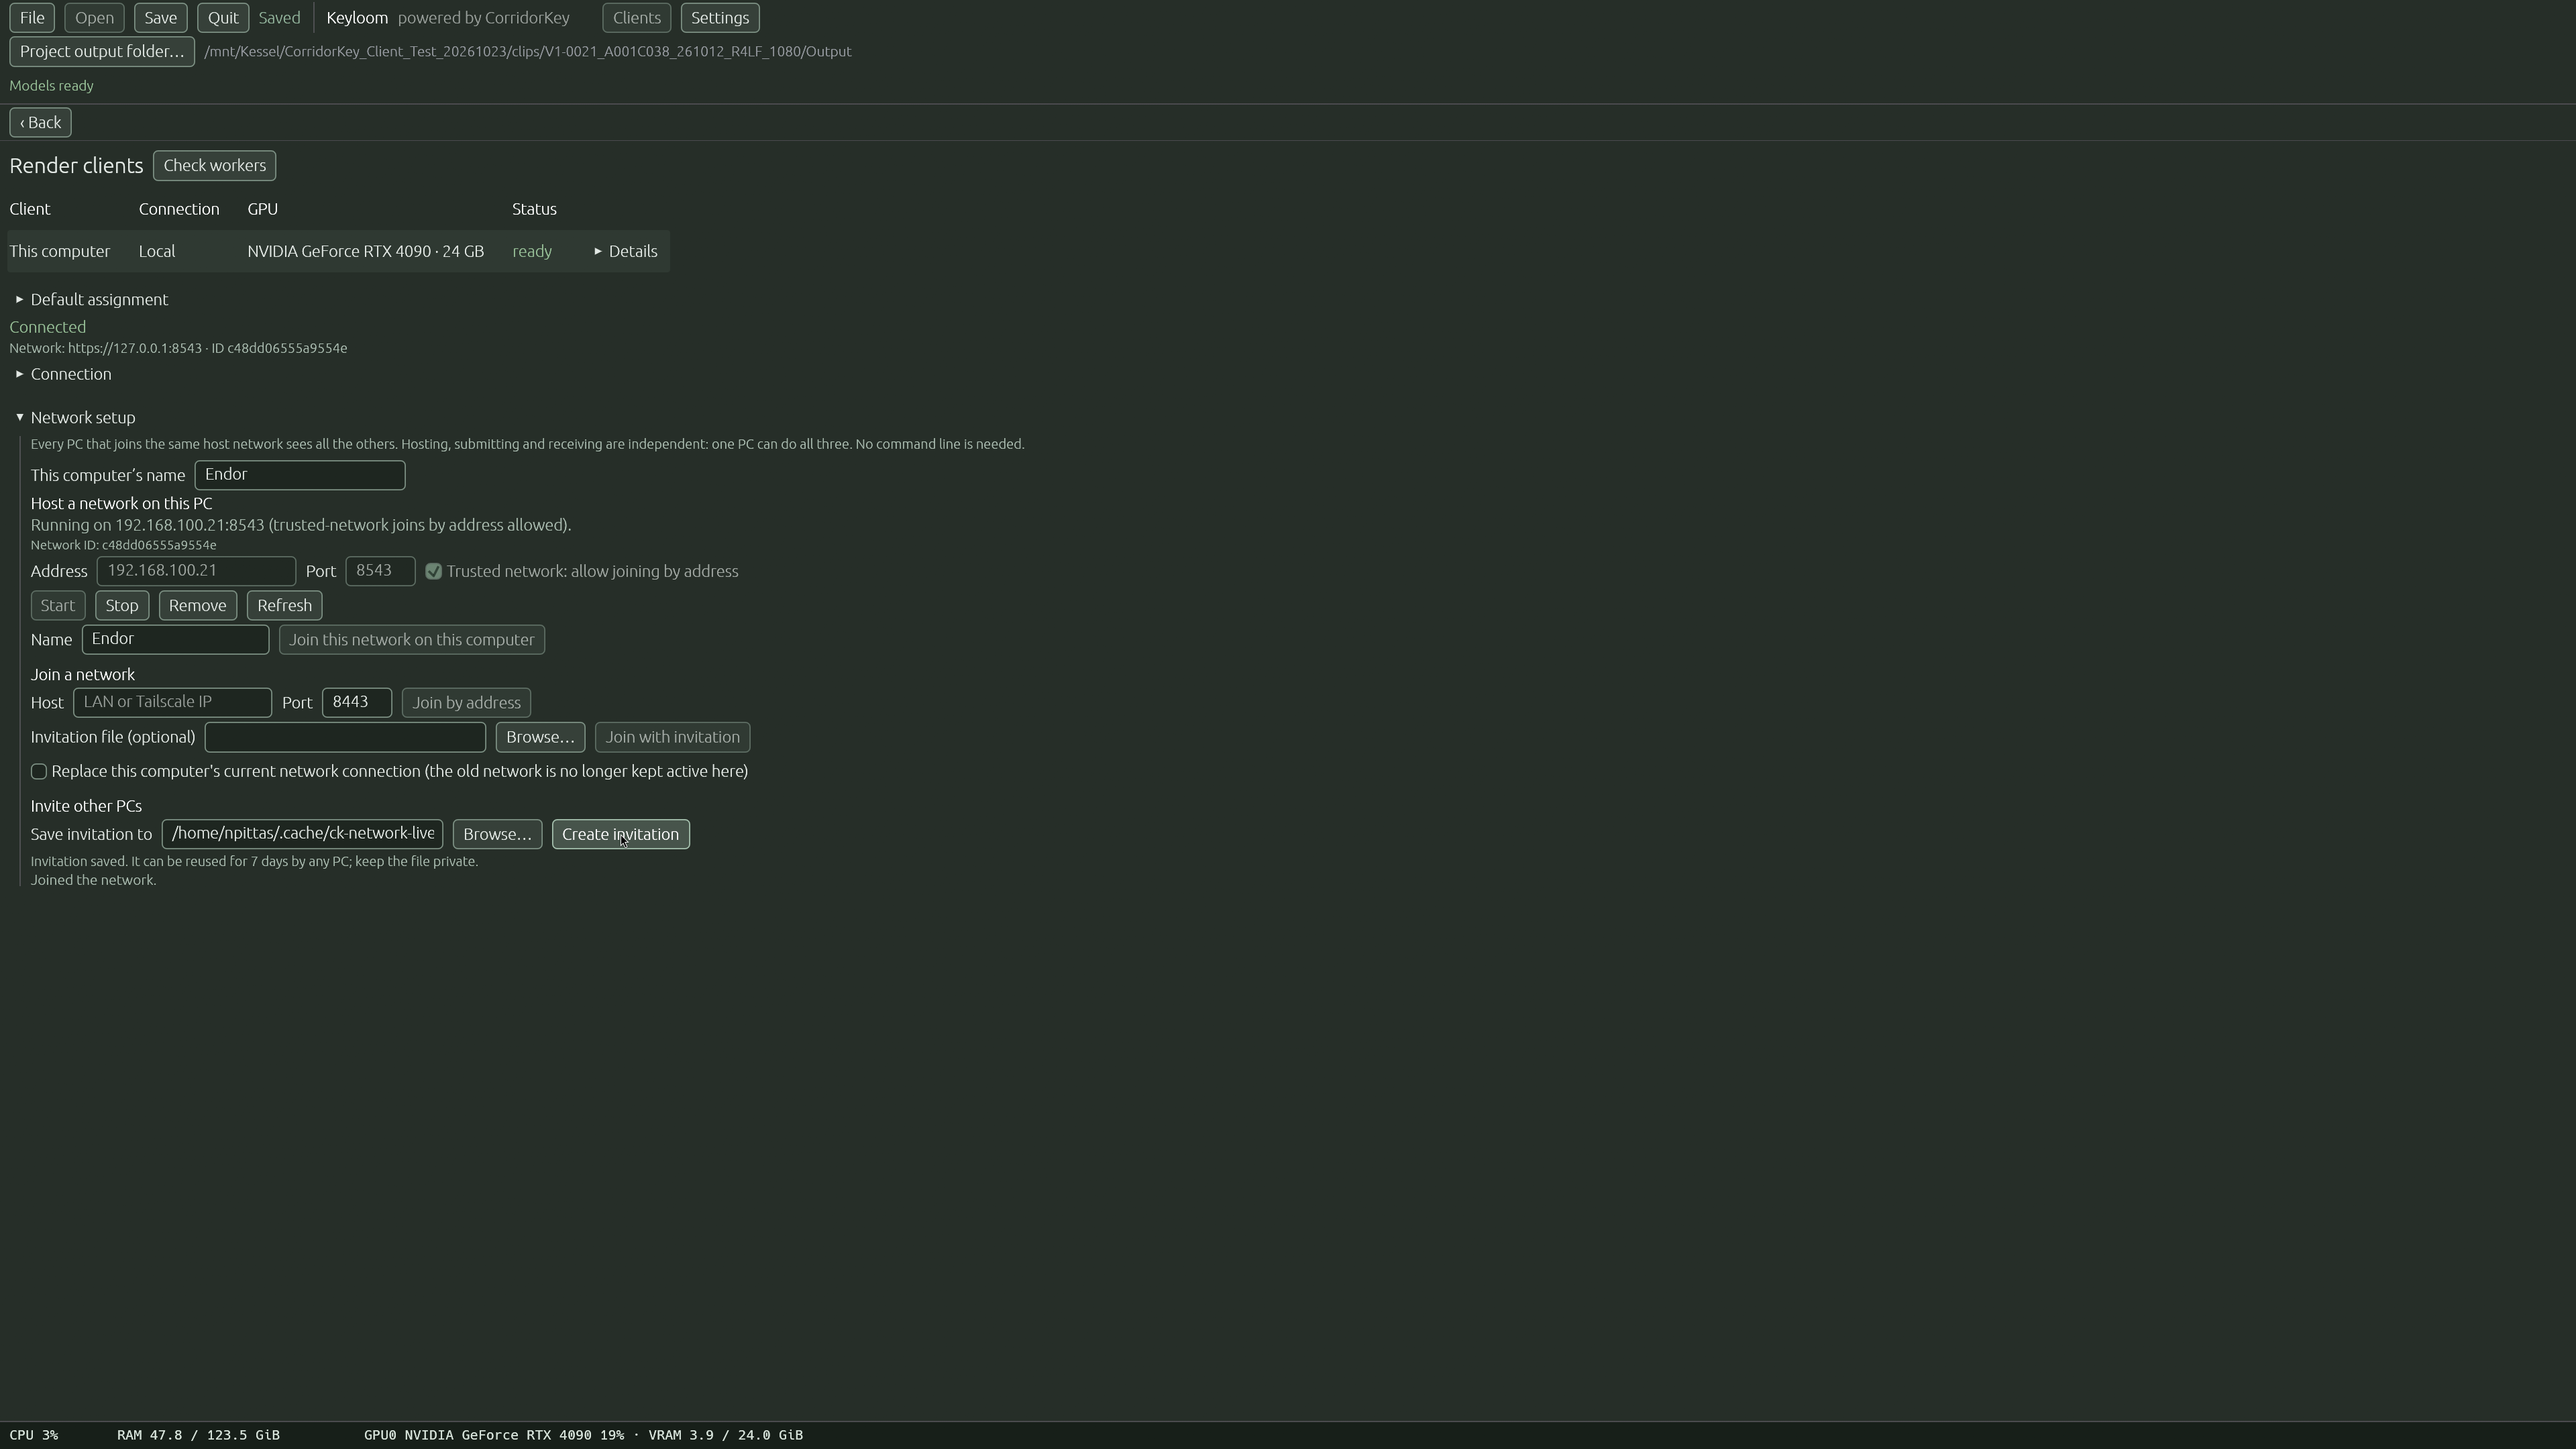
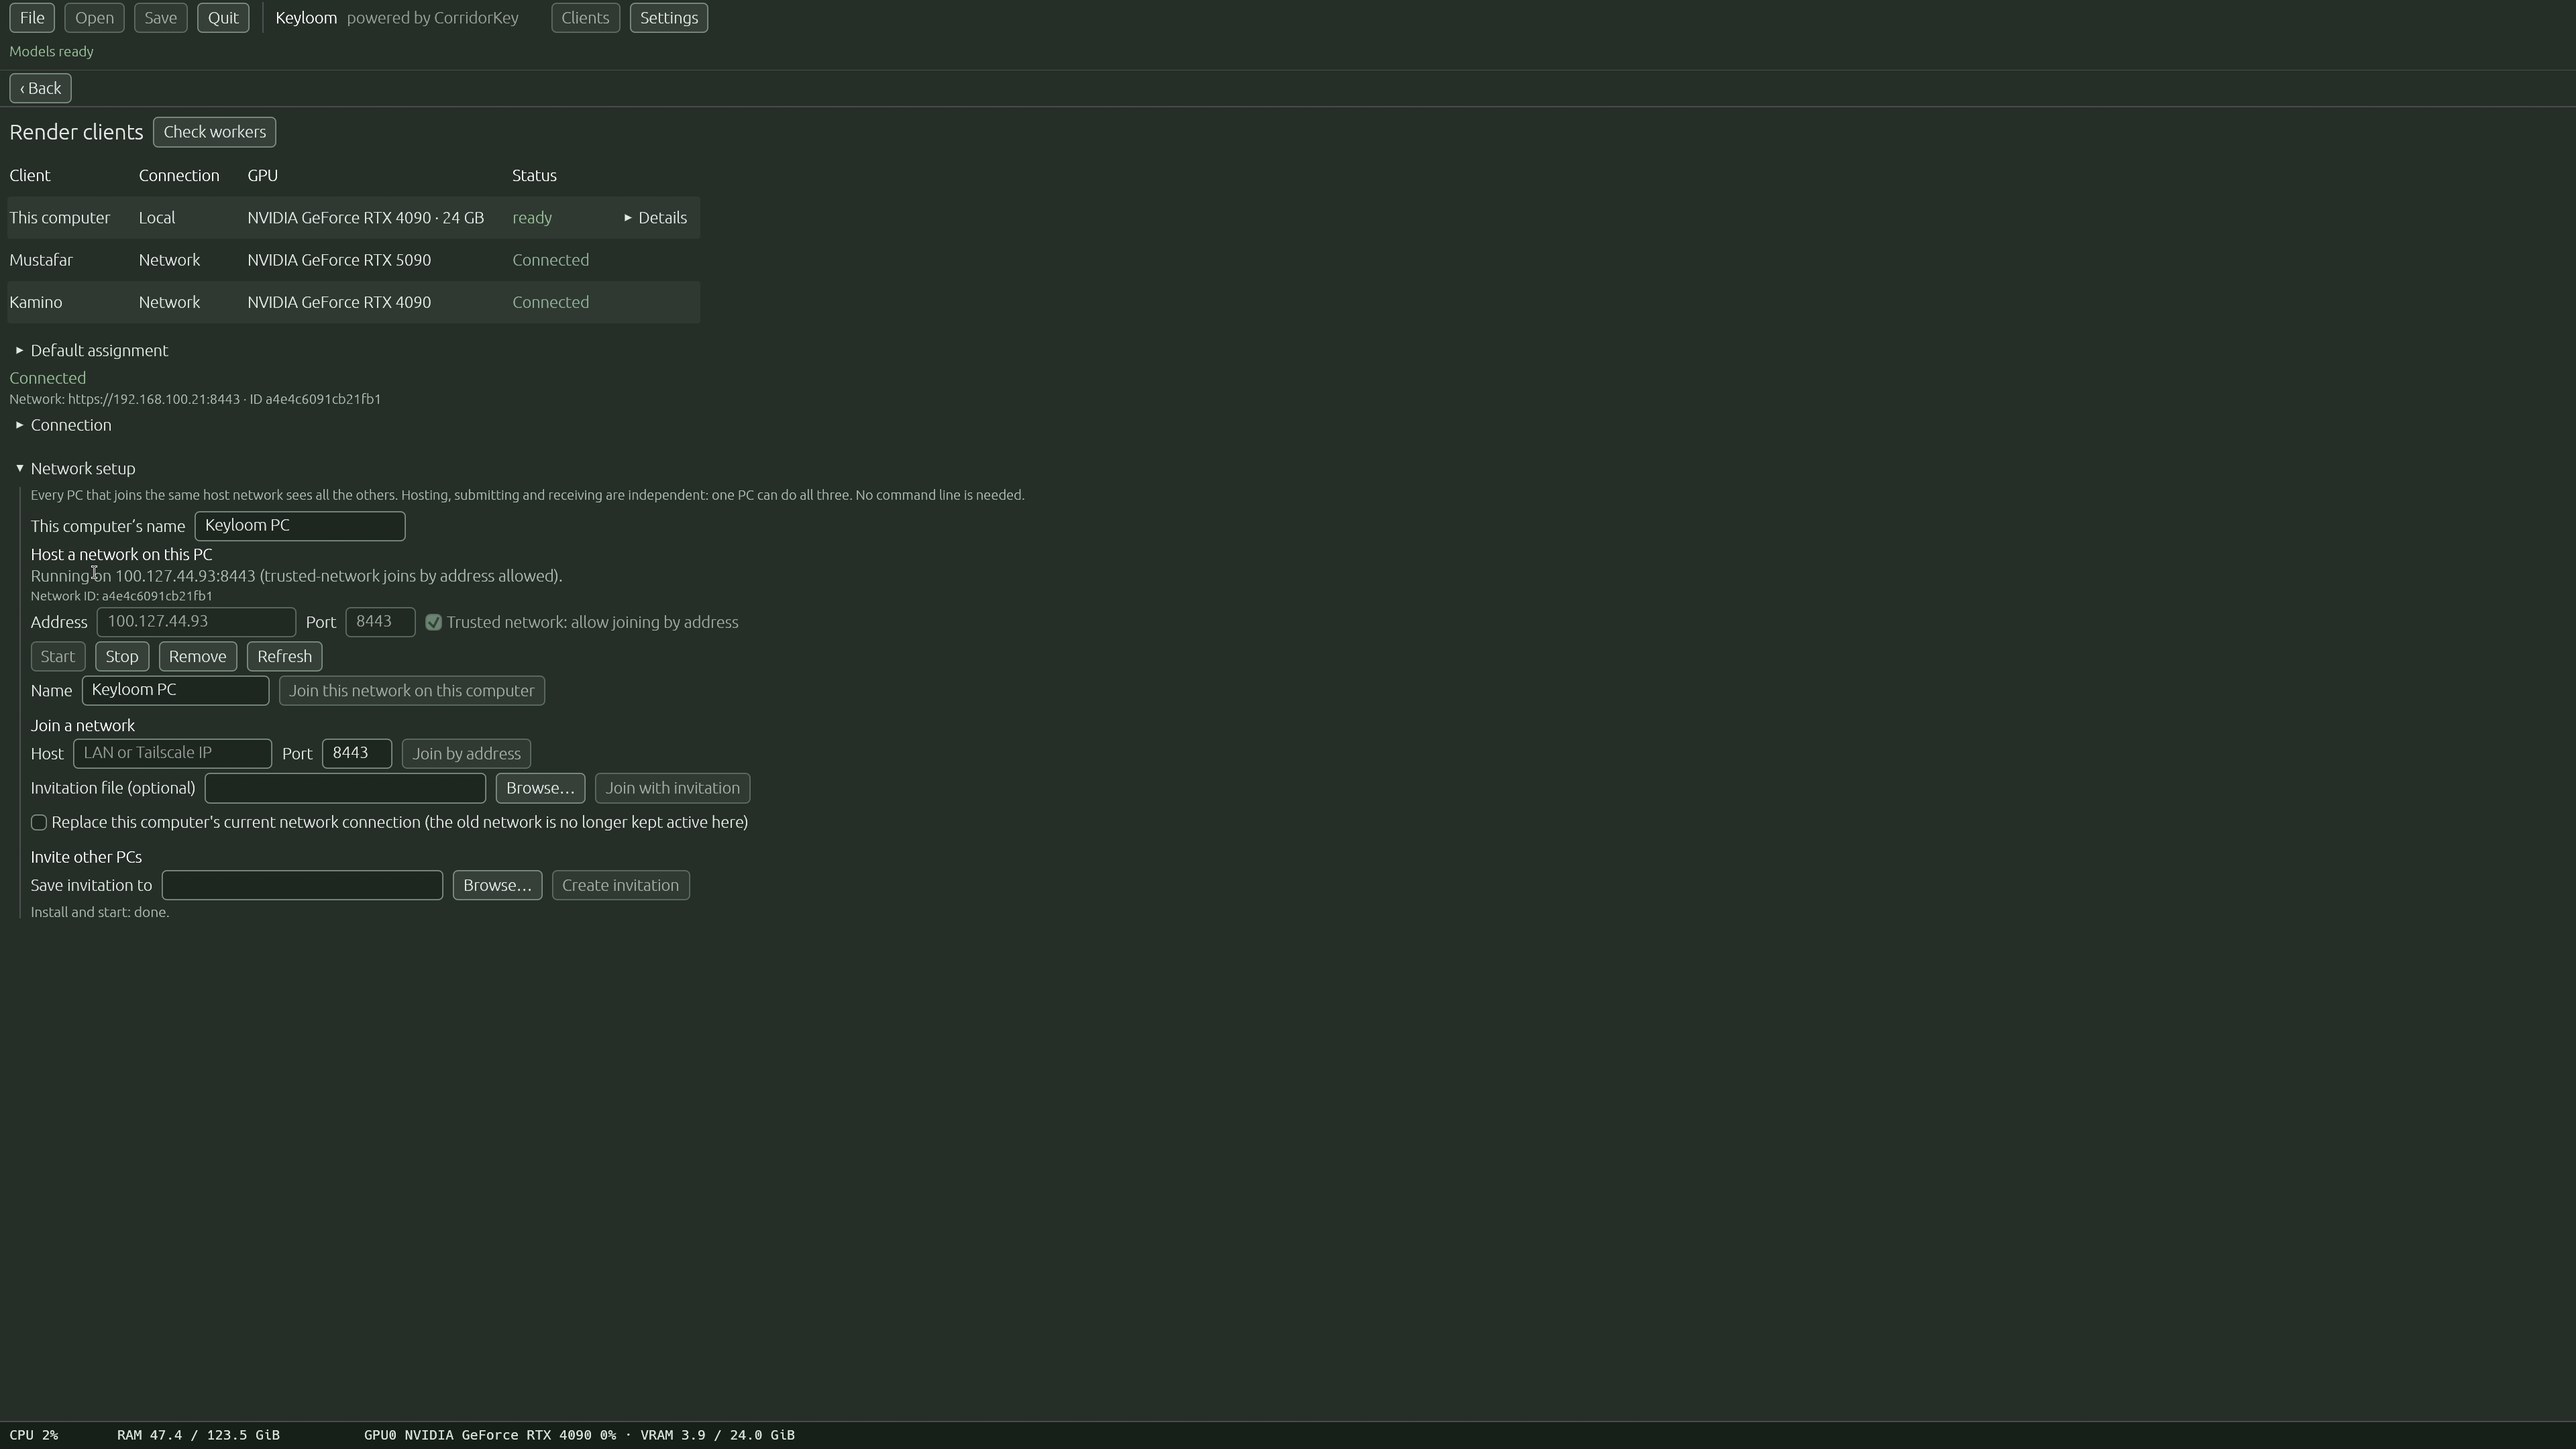
Document final Keyloom installers and verified UI network setup

Changed region(s): [[0.0, 0.031, 0.2812, 0.6204], [0.0938, 0.0, 0.2812, 0.031]]

diff --git a/docs/install.md b/docs/install.md
@@ -21,18 +21,18 @@ The installers are for private use. The licence is non-commercial (CC-BY-NC-SA-4
 
 GitHub limits file size, so the installer comes in slices: one `.exe` plus several `.bin` files (each up to 1900 MiB), and a `.sha256` file.
 
-`<id>` below stands for the build identifier in the file names of the release you download (the same in every file of one release). Final installer IDs are not published yet.
+The Windows payload is `2.2.0-8f144ac0b0`; the Linux payload is `2.2.0-56885597c1`. These suffixes identify the bundled contents.
 
 Download the [Windows release](https://github.com/NickPittas/Keyloom/releases/tag/v2.2.0-windows).
 
 1. Download **all** of these into the **same folder**:
-   - `Keyloom-2.2.0-<id>-windows-x86_64-setup.exe`
-   - every `Keyloom-2.2.0-<id>-windows-x86_64-setup-1.bin`, `-2.bin`, … (all of them)
-   - `Keyloom-2.2.0-<id>-windows-x86_64-setup.exe.sha256`
+   - `Keyloom-2.2.0-8f144ac0b0-windows-x86_64-setup.exe`
+   - every `Keyloom-2.2.0-8f144ac0b0-windows-x86_64-setup-1.bin`, `-2.bin`, … (all of them)
+   - `Keyloom-2.2.0-8f144ac0b0-windows-x86_64-setup.exe.sha256`
 2. Check the files. In PowerShell, inside that folder:
 
    ```powershell
-   Get-Content .\Keyloom-2.2.0-<id>-windows-x86_64-setup.exe.sha256 | ForEach-Object {
+   Get-Content .\Keyloom-2.2.0-8f144ac0b0-windows-x86_64-setup.exe.sha256 | ForEach-Object {
      $hash, $name = $_ -split '\s+', 2
      $got = (Get-FileHash -Algorithm SHA256 -LiteralPath $name).Hash
      if ($got -ine $hash) { throw "SHA256 mismatch: $name" }
@@ -63,16 +63,16 @@ The release is a single self-extracting `.run` file. If it is hosted on GitHub i
 
 Put these files in one folder:
 
-- `Keyloom-2.2.0-<id>-linux-x86_64.run.part001`, `.part002`, `.part003` (every part)
-- `Keyloom-2.2.0-<id>-linux-x86_64.run.parts.sha256` (checksums of the parts)
-- `Keyloom-2.2.0-<id>-linux-x86_64.run.sha256` (checksum of the whole file)
+- `Keyloom-2.2.0-56885597c1-linux-x86_64.run.part001`, `.part002`, `.part003` (every part)
+- `Keyloom-2.2.0-56885597c1-linux-x86_64.run.parts.sha256` (checksums of the parts)
+- `Keyloom-2.2.0-56885597c1-linux-x86_64.run.sha256` (checksum of the whole file)
 
 ```sh
-cd ~/Downloads/corridorkey
-sha256sum -c Keyloom-2.2.0-<id>-linux-x86_64.run.parts.sha256
-cat Keyloom-2.2.0-<id>-linux-x86_64.run.part[0-9][0-9][0-9] > Keyloom-2.2.0-<id>-linux-x86_64.run
-sha256sum -c Keyloom-2.2.0-<id>-linux-x86_64.run.sha256
-chmod +x Keyloom-2.2.0-<id>-linux-x86_64.run
+cd ~/Downloads/keyloom
+sha256sum -c Keyloom-2.2.0-56885597c1-linux-x86_64.run.parts.sha256
+cat Keyloom-2.2.0-56885597c1-linux-x86_64.run.part[0-9][0-9][0-9] > Keyloom-2.2.0-56885597c1-linux-x86_64.run
+sha256sum -c Keyloom-2.2.0-56885597c1-linux-x86_64.run.sha256
+chmod +x Keyloom-2.2.0-56885597c1-linux-x86_64.run
 ```
 
 Use the numeric pattern `part[0-9][0-9][0-9]`. A plain `part*` would also match the `.parts.sha256` file and corrupt the result. Each check must print `OK`.
@@ -80,7 +80,7 @@ Use the numeric pattern `part[0-9][0-9][0-9]`. A plain `part*` would also match 
 ### Run the installer
 
 ```sh
-./Keyloom-2.2.0-<id>-linux-x86_64.run
+./Keyloom-2.2.0-56885597c1-linux-x86_64.run
 ```
 
 It installs to `~/.local/opt/CorridorKey` by default, adds a desktop entry, installs the `corridorkey`, `corridorkey-setup` and `corridorkey-coordinator` commands under `~/.local/opt/CorridorKey/bin`, then downloads and verifies the full model set.

diff --git a/docs/release-2.2.0.md b/docs/release-2.2.0.md
@@ -1,6 +1,11 @@
 # Keyloom 2.2.0 release record
 
-Keyloom — powered by CorridorKey. Separate Linux and Windows installers are being prepared for the private repository; final asset identities are listed in the release asset manifest.
+Keyloom — powered by CorridorKey. Separate Linux and Windows installers are distributed in the private repository. The source payload was built from commit `db179cc` (later documentation commits do not alter the payload). Full downloadable asset sizes and SHA256 hashes are in [the asset manifest](release-2.2.0-assets.json).
+
+| Platform | Payload identity | Downloads |
+|---|---|---|
+| Linux x86-64 | `2.2.0-56885597c1` | Three numeric installer parts and two checksum files |
+| Windows x86-64 | `2.2.0-8f144ac0b0` | Setup exe, two bin slices and the checksum file |
 
 ## Changed setup verified on the existing PCs
 
@@ -9,7 +14,8 @@ Keyloom — powered by CorridorKey. Separate Linux and Windows installers are be
 - Windows: installed the per-user logon service from Clients, allowed the OS firewall prompt, joined the host locally, created an invitation, stopped and removed the service. Recreated the temporary network using its reachable Tailscale address.
 - Two separate Linux PCs joined that Windows network using the **same invitation file**. The member lists showed all three PCs connected. No render was submitted during this setup check.
 - The setup check exposed a Linux unit WorkingDirectory quoting error and a disconnected-client request backlog on Windows. Both are fixed. The backlog fix limits outstanding status requests and enters reconnect backoff when membership refresh fails.
-- Code review confirmed that older network certificates keep their identity when moving to the UI-managed service. Local joining uses loopback transport while retaining the advertised hostname and pinned certificate for TLS verification.
+- The original network was moved to the UI-managed service without changing its certificate or client IDs. All three PCs reconnected using their existing credentials and retained their shot assignments. Local joining supports older certificates using loopback transport while retaining the advertised hostname and pinned certificate for TLS verification.
+- Final Linux and Windows payload activation and installed runtime self-checks passed. Models were deliberately skipped because the existing model stores were reused. A brief host stop made the final Windows client show Not connected; the host was restarted to verify automatic recovery without restarting the client.
 
 ## Earlier accepted behavior
 
